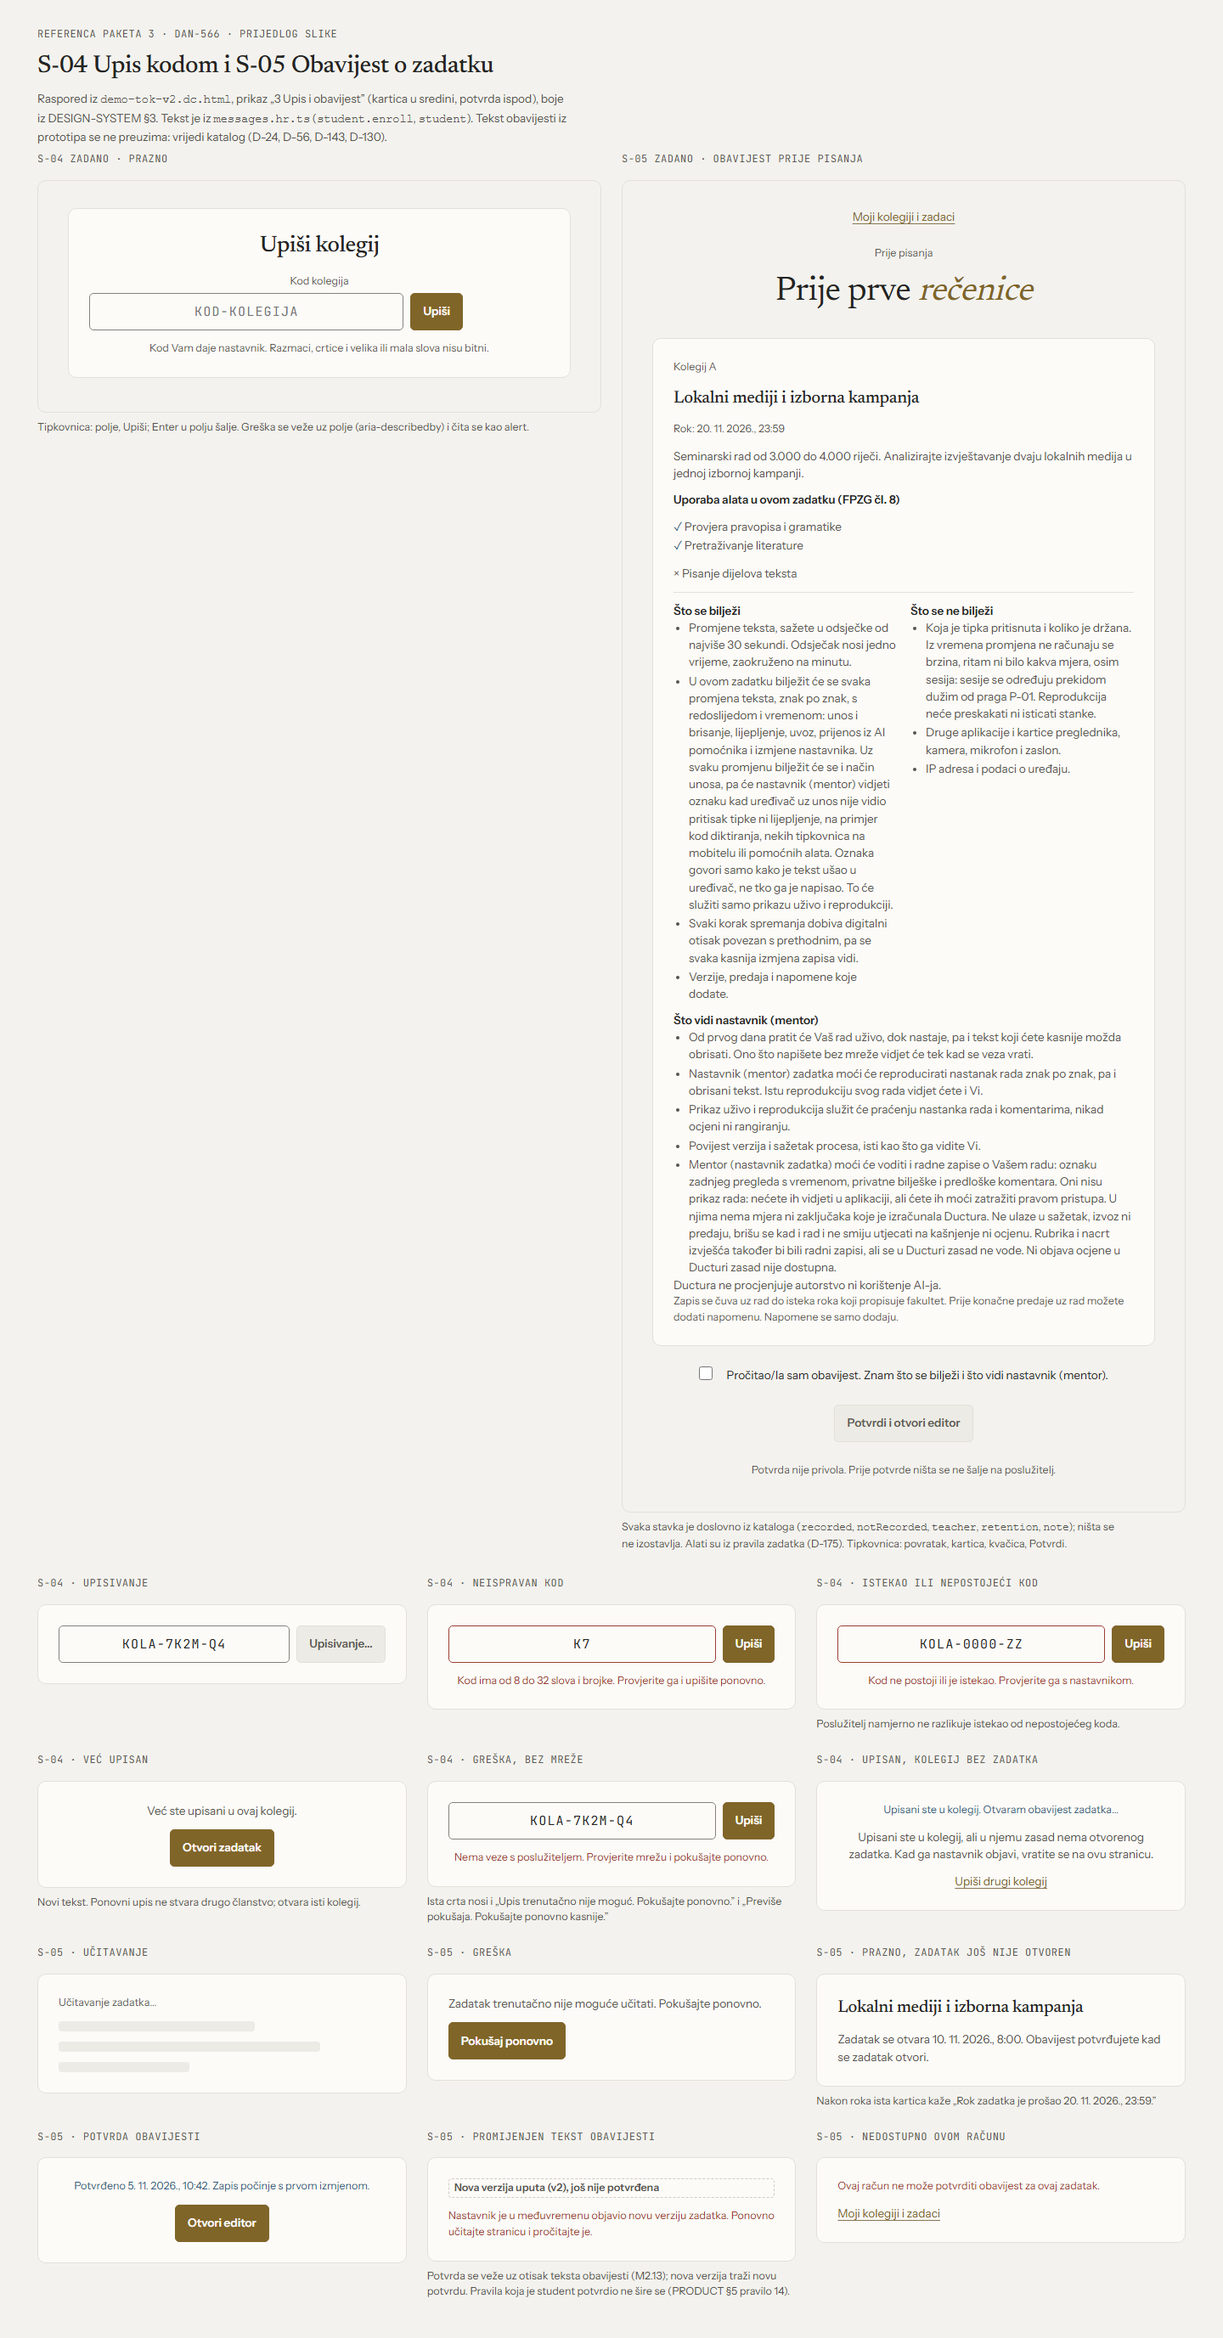
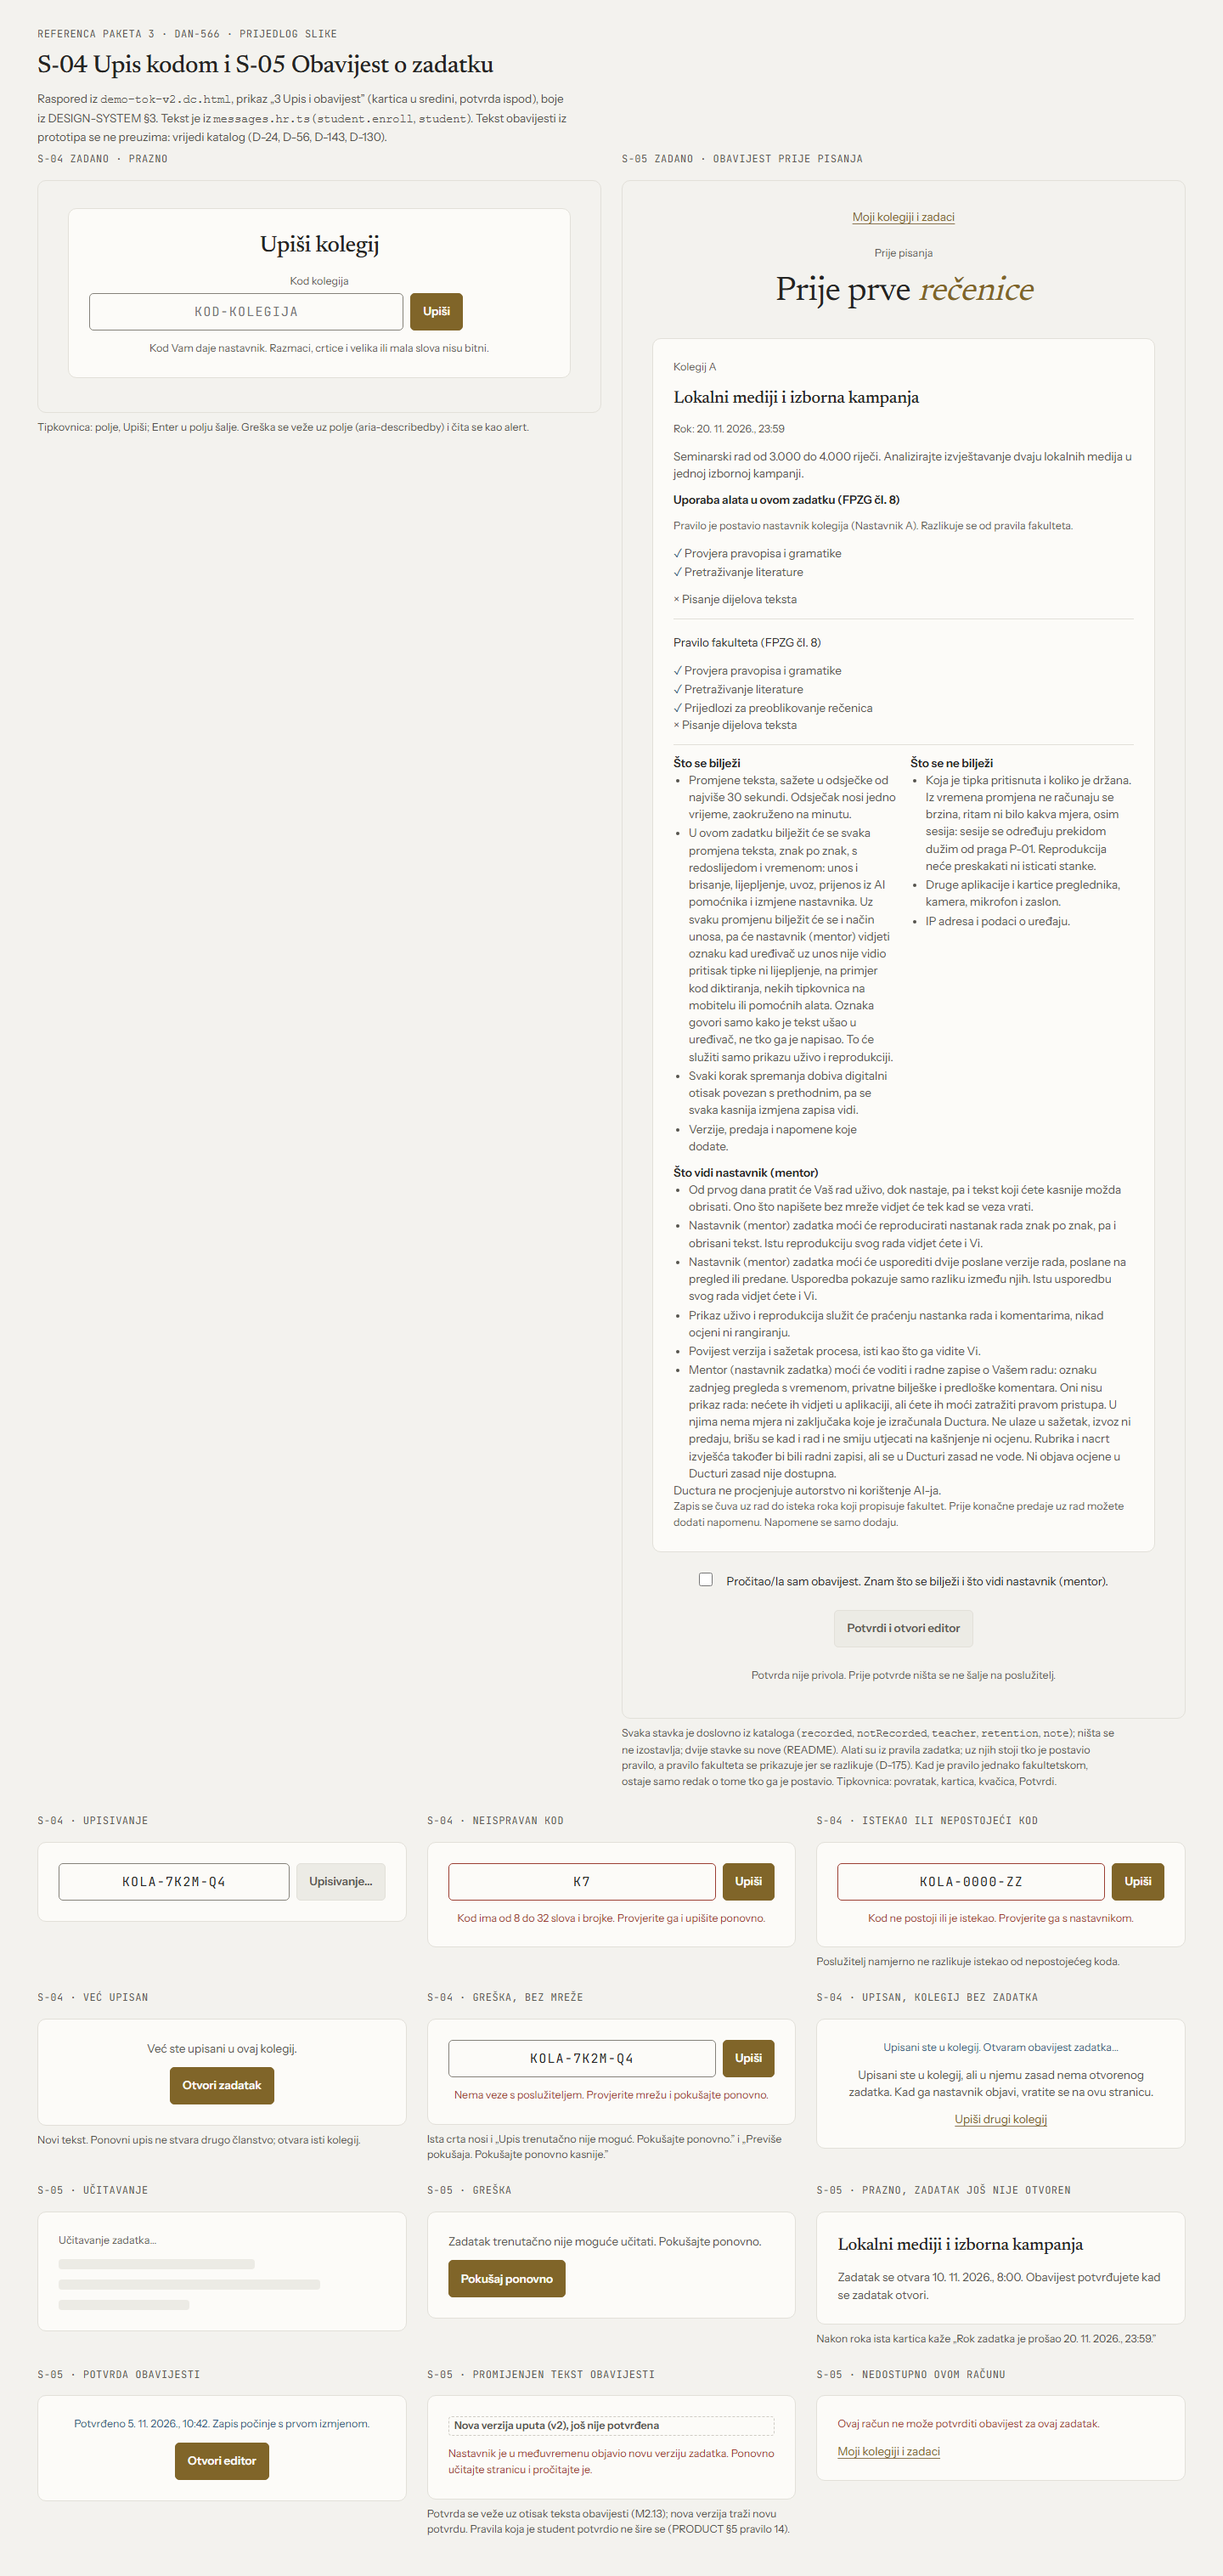
docs: show version comparison and rule source in the S-05 notice (DAN-566)
Review c.6649825569: the notice now says the mentor can compare two sent
versions (PRODUCT section 5 rule 7, D-202), and the tool rule shows who set
it and the faculty rule when it differs (D-175). Both texts are listed as
new in the README; screenshots and SHA256SUMS are refreshed.

Claude-Session: https://claude.ai/code/session_01N1HowT4JEmWPus261RPqtk

diff --git a/docs/design/ductura/m2-student-reference/upis-obavijest.html b/docs/design/ductura/m2-student-reference/upis-obavijest.html
@@ -29,20 +29,24 @@
         <section class="card" aria-labelledby="o1"><span class="eyebrow">Kolegij A</span><h2 id="o1">Lokalni mediji i izborna kampanja</h2><span class="meta">Rok: 20. 11. 2026., 23:59</span>
           <p class="note">Seminarski rad od 3.000 do 4.000 riječi. Analizirajte izvještavanje dvaju lokalnih medija u jednoj izbornoj kampanji.</p>
           <h3>Uporaba alata u ovom zadatku (FPZG čl. 8)</h3>
+          <p class="meta">Pravilo je postavio nastavnik kolegija (Nastavnik A). Razlikuje se od pravila fakulteta.</p>
           <ul class="facts ok-list"><li>Provjera pravopisa i gramatike</li><li>Pretraživanje literature</li></ul>
           <ul class="facts no-list"><li>Pisanje dijelova teksta</li></ul>
+          <details open><summary>Pravilo fakulteta (FPZG čl. 8)</summary>
+            <ul class="facts ok-list"><li>Provjera pravopisa i gramatike</li><li>Pretraživanje literature</li><li>Prijedlozi za preoblikovanje rečenica</li></ul>
+            <ul class="facts no-list"><li>Pisanje dijelova teksta</li></ul></details>
           <div class="notice-cols">
             <div><h3>Što se bilježi</h3><ul class="facts"><li>Promjene teksta, sažete u odsječke od najviše 30 sekundi. Odsječak nosi jedno vrijeme, zaokruženo na minutu.</li><li>U ovom zadatku bilježit će se svaka promjena teksta, znak po znak, s redoslijedom i vremenom: unos i brisanje, lijepljenje, uvoz, prijenos iz AI pomoćnika i izmjene nastavnika. Uz svaku promjenu bilježit će se i način unosa, pa će nastavnik (mentor) vidjeti oznaku kad uređivač uz unos nije vidio pritisak tipke ni lijepljenje, na primjer kod diktiranja, nekih tipkovnica na mobitelu ili pomoćnih alata. Oznaka govori samo kako je tekst ušao u uređivač, ne tko ga je napisao. To će služiti samo prikazu uživo i reprodukciji.</li><li>Svaki korak spremanja dobiva digitalni otisak povezan s prethodnim, pa se svaka kasnija izmjena zapisa vidi.</li><li>Verzije, predaja i napomene koje dodate.</li></ul></div>
             <div><h3>Što se ne bilježi</h3><ul class="facts"><li>Koja je tipka pritisnuta i koliko je držana. Iz vremena promjena ne računaju se brzina, ritam ni bilo kakva mjera, osim sesija: sesije se određuju prekidom dužim od praga P-01. Reprodukcija neće preskakati ni isticati stanke.</li><li>Druge aplikacije i kartice preglednika, kamera, mikrofon i zaslon.</li><li>IP adresa i podaci o uređaju.</li></ul></div>
           </div>
-          <div><h3>Što vidi nastavnik (mentor)</h3><ul class="facts"><li>Od prvog dana pratit će Vaš rad uživo, dok nastaje, pa i tekst koji ćete kasnije možda obrisati. Ono što napišete bez mreže vidjet će tek kad se veza vrati.</li><li>Nastavnik (mentor) zadatka moći će reproducirati nastanak rada znak po znak, pa i obrisani tekst. Istu reprodukciju svog rada vidjet ćete i Vi.</li><li>Prikaz uživo i reprodukcija služit će praćenju nastanka rada i komentarima, nikad ocjeni ni rangiranju.</li><li>Povijest verzija i sažetak procesa, isti kao što ga vidite Vi.</li><li>Mentor (nastavnik zadatka) moći će voditi i radne zapise o Vašem radu: oznaku zadnjeg pregleda s vremenom, privatne bilješke i predloške komentara. Oni nisu prikaz rada: nećete ih vidjeti u aplikaciji, ali ćete ih moći zatražiti pravom pristupa. U njima nema mjera ni zaključaka koje je izračunala Ductura. Ne ulaze u sažetak, izvoz ni predaju, brišu se kad i rad i ne smiju utjecati na kašnjenje ni ocjenu. Rubrika i nacrt izvješća također bi bili radni zapisi, ali se u Ducturi zasad ne vode. Ni objava ocjene u Ducturi zasad nije dostupna.</li></ul>
+          <div><h3>Što vidi nastavnik (mentor)</h3><ul class="facts"><li>Od prvog dana pratit će Vaš rad uživo, dok nastaje, pa i tekst koji ćete kasnije možda obrisati. Ono što napišete bez mreže vidjet će tek kad se veza vrati.</li><li>Nastavnik (mentor) zadatka moći će reproducirati nastanak rada znak po znak, pa i obrisani tekst. Istu reprodukciju svog rada vidjet ćete i Vi.</li><li>Nastavnik (mentor) zadatka moći će usporediti dvije poslane verzije rada, poslane na pregled ili predane. Usporedba pokazuje samo razliku između njih. Istu usporedbu svog rada vidjet ćete i Vi.</li><li>Prikaz uživo i reprodukcija služit će praćenju nastanka rada i komentarima, nikad ocjeni ni rangiranju.</li><li>Povijest verzija i sažetak procesa, isti kao što ga vidite Vi.</li><li>Mentor (nastavnik zadatka) moći će voditi i radne zapise o Vašem radu: oznaku zadnjeg pregleda s vremenom, privatne bilješke i predloške komentara. Oni nisu prikaz rada: nećete ih vidjeti u aplikaciji, ali ćete ih moći zatražiti pravom pristupa. U njima nema mjera ni zaključaka koje je izračunala Ductura. Ne ulaze u sažetak, izvoz ni predaju, brišu se kad i rad i ne smiju utjecati na kašnjenje ni ocjenu. Rubrika i nacrt izvješća također bi bili radni zapisi, ali se u Ducturi zasad ne vode. Ni objava ocjene u Ducturi zasad nije dostupna.</li></ul>
             <p class="note">Ductura ne procjenjuje autorstvo ni korištenje AI-ja.</p><p class="meta">Zapis se čuva uz rad do isteka roka koji propisuje fakultet. Prije konačne predaje uz rad možete dodati napomenu. Napomene se samo dodaju.</p></div>
         </section>
         <label style="display:flex;gap:8px;text-align:left"><input type="checkbox">Pročitao/la sam obavijest. Znam što se bilježi i što vidi nastavnik (mentor).</label>
         <button class="btn" type="button" aria-disabled="true">Potvrdi i otvori editor</button>
         <span class="meta">Potvrda nije privola. Prije potvrde ništa se ne šalje na poslužitelj.</span>
       </div></div>
-      <p class="ref-note">Svaka stavka je doslovno iz kataloga (<code>recorded</code>, <code>notRecorded</code>, <code>teacher</code>, <code>retention</code>, <code>note</code>); ništa se ne izostavlja. Alati su iz pravila zadatka (D-175). Tipkovnica: povratak, kartica, kvačica, Potvrdi.</p></section>
+      <p class="ref-note">Svaka stavka je doslovno iz kataloga (<code>recorded</code>, <code>notRecorded</code>, <code>teacher</code>, <code>retention</code>, <code>note</code>); ništa se ne izostavlja; dvije stavke su nove (README). Alati su iz pravila zadatka; uz njih stoji tko je postavio pravilo, a pravilo fakulteta se prikazuje jer se razlikuje (D-175). Kad je pravilo jednako fakultetskom, ostaje samo redak o tome tko ga je postavio. Tipkovnica: povratak, kartica, kvačica, Potvrdi.</p></section>
   </div>
   <div class="variants">
     <section class="variant" aria-labelledby="a1"><div class="ref-tag" id="a1">S-04 · upisivanje</div>

diff --git a/docs/design/ductura/m2-student-reference/reference.css b/docs/design/ductura/m2-student-reference/reference.css
@@ -74,3 +74,5 @@
   .task { grid-template-columns: 1fr; }
   .card { padding: 16px; }
 }
+.card details { border-top: 1px solid var(--rule-2); padding-top: 6px; }
+.card summary { min-height: 44px; display: flex; align-items: center; cursor: pointer; }

diff --git a/docs/design/ductura/m2-student-reference/README.md b/docs/design/ductura/m2-student-reference/README.md
@@ -46,6 +46,8 @@ Ovi tekstovi su prijedlog i ulaze u `messages.hr.ts` tek s izvedbom, uz provjeru
 - S-02, S-03: „Rok za 3 dana” (prag od 7 dana potvrđuje izvedba).
 - S-03: oznake „Seminarska grupa 2” i akademska godina uz kolegij (M2.7).
 - S-04: „Već ste upisani u ovaj kolegij.”
+- S-05: „Nastavnik (mentor) zadatka moći će usporediti dvije poslane verzije rada, poslane na pregled ili predane. Usporedba pokazuje samo razliku između njih. Istu usporedbu svog rada vidjet ćete i Vi.” (PRODUCT §5 pravilo 7, D-202; katalog ima samo `teacherExtended` za prošireni profil).
+- S-05: „Pravilo je postavio nastavnik kolegija (Nastavnik A). Razlikuje se od pravila fakulteta.” i rasklopivo „Pravilo fakulteta (FPZG čl. 8)” (D-175); kad se pravila ne razlikuju, ostaje samo prva rečenica.
 
 ## Tipkovnica (EQ6)
 
